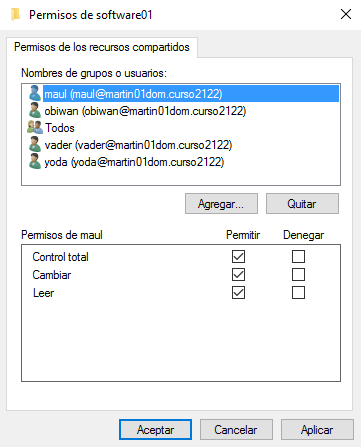
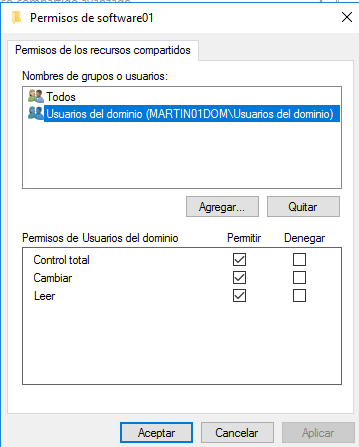
2-3.2

diff --git a/Tema 5/03-Politicas de grupo/README.md b/Tema 5/03-Politicas de grupo/README.md
@@ -114,5 +114,54 @@ Comparto esta carpeta como recurso de red y le doy permiso total a todos los usu
 
 ---
 
-## 2.2 Crear el paquete MSI con EMCO Software
+## 2.2 Crear el paquete MSI de Firefox
 
+![](img/19.png)
+
+Descargo el paquete MSI de Firefox.
+
+---
+
+# 3. Aplicar directuva de Equipo
+
+## 3.1 Crear nueva GPO en el servidor
+
+![](img/20.png)
+
+Creo la OU equipos01 y muevo los equipos del dominio computers/* dentro de esta OU.
+
+---
+
+![](img/21.png)
+
+Creo la GPO **software01** dentro de la OU **equipos01**.
+
+---
+
+![](img/22.png)
+
+Configuro la directiva para incluir el msi de Firefox, le indico la ruta del recurso de red y y la configuro en modo asignado.
+
+---
+
+![](img/23.png)
+
+Añado usuarios del dominio al filtrado de seguridad de la GPO.
+
+---
+
+![](img/24.png)
+
+Fuerzo las actualizaciones de las directivas a través de la terminal.
+
+---
+
+![](img/25.png)
+
+Resumen de la configuración de la directiva.
+
+## 3.2 Comprobar desde los clientes
+
+![](img/26.png)
+
+Desde el equipo cliente de Windows 10 compruebo que se ha instalado el anvegador firefox.
